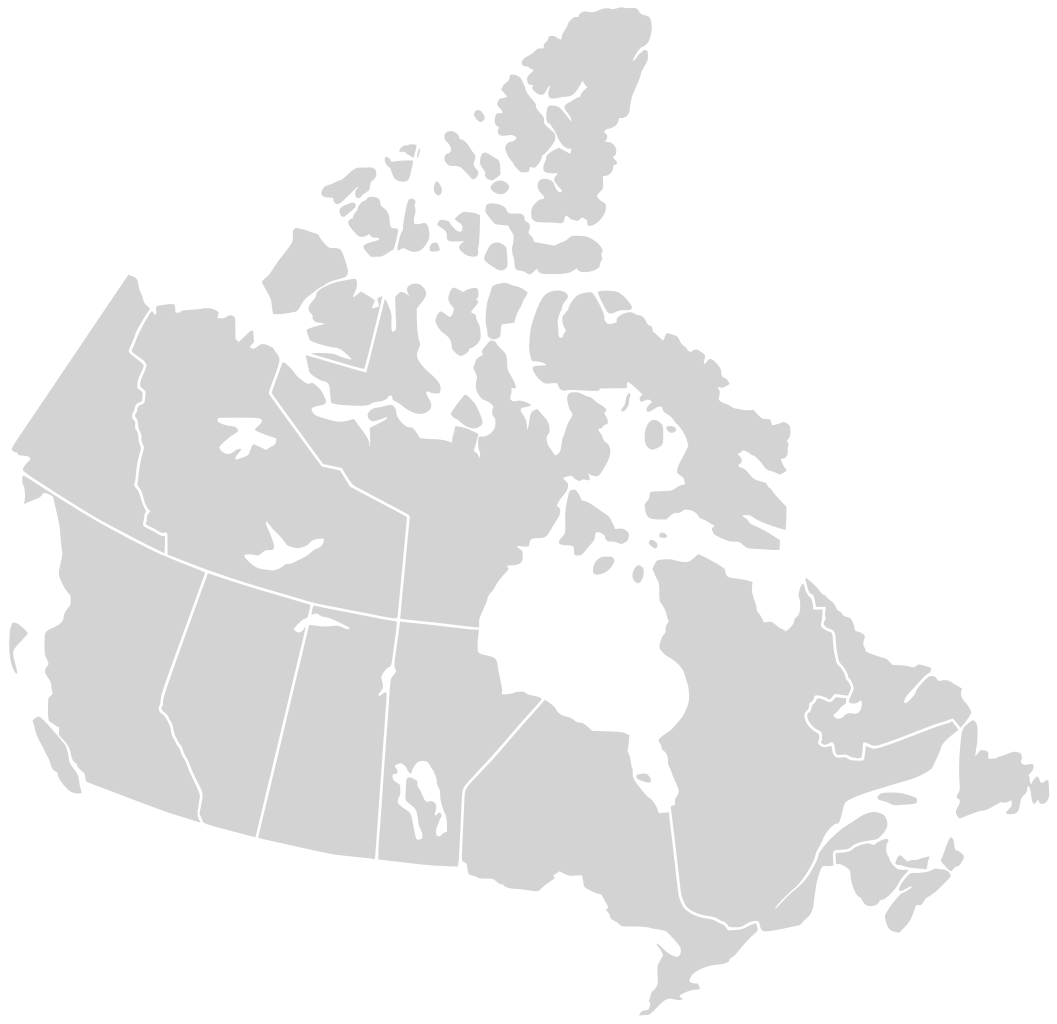
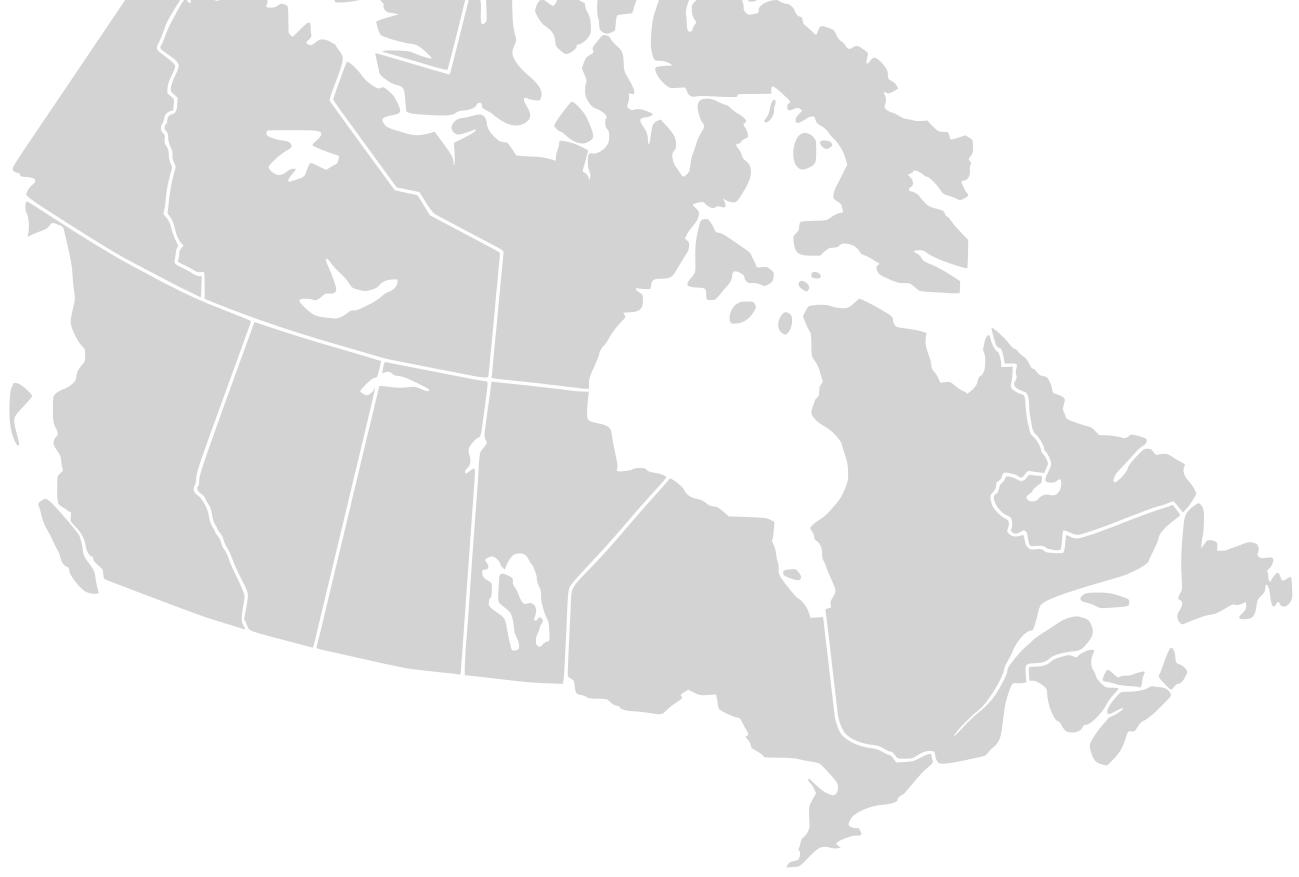
improved location scaling with viewport changes

diff --git a/ppp-front/public/index.html b/ppp-front/public/index.html
@@ -2,34 +2,15 @@
 <html lang="en">
   <head>
     <meta charset="utf-8">
-    <meta name="viewport" content="width=device-width, initial-scale=1">
+    <meta name="viewport" content="width=device-width, initial-scale=2">
     <link rel="stylesheet" href="https://maxcdn.bootstrapcdn.com/bootstrap/3.3.7/css/bootstrap.min.css" integrity="sha384-BVYiiSIFeK1dGmJRAkycuHAHRg32OmUcww7on3RYdg4Va+PmSTsz/K68vbdEjh4u" crossorigin="anonymous">
     <link href="https://fonts.googleapis.com/css?family=Anton" rel="stylesheet">
 
     <link rel="stylesheet" href="src/index.css">
     
-     <!--
-      Notice the use of %PUBLIC_URL% in the tag above.
-      It will be replaced with the URL of the `public` folder during the build.
-      Only files inside the `public` folder can be referenced from the HTML.
-
-      Unlike "/favicon.ico" or "favicon.ico", "%PUBLIC_URL%/favicon.ico" will
-      work correctly both with client-side routing and a non-root public URL.
-      Learn how to configure a non-root public URL by running `npm run build`.
-    -->
     <title>React App</title>
   </head>
   <body>
     <div id="root"></div>
-    <!--
-      This HTML file is a template.
-      If you open it directly in the browser, you will see an empty page.
-
-      You can add webfonts, meta tags, or analytics to this file.
-      The build step will place the bundled scripts into the <body> tag.
-
-      To begin the development, run `npm start`.
-      To create a production bundle, use `npm run build`.
-    -->
   </body>
 </html>

diff --git a/ppp-front/src/App.js b/ppp-front/src/App.js
@@ -15,26 +15,19 @@ class App extends Component {
     })
   }
 
-  componentDidUpdate() {
-    console.log(this.state.id)
-  }
-
   render() {
     const medianIncome = this.props.medianIncome;
 
     return (
       <div className="App">
       <h1 className="headertitle">Median Income in Canadian Metropolitan Cities</h1>
-        <div className="App-header">
-          <img className="map" src="/Canada_blank_map.svg" />
+      <div className="App-header">
+        <img className="map" src="/Canada.png" />
           <div>
-          
+            <Marker medianIncome={this.props.medianIncome} handleClick={this.handleClick}/>
+            <InfoBox medianIncome={this.props.medianIncome} id={this.state.id}/>
           </div>
-            <div>
-              <Marker medianIncome={this.props.medianIncome} handleClick={this.handleClick}/>
-            </div>
-              <InfoBox medianIncome={this.props.medianIncome} id={this.state.id}/>
-        </div>
+      </div>
       </div>
     );
   }
@@ -80,7 +73,6 @@ class InfoBox extends Component {
      let trimmedIncome = formatter.format(medianIncome[index].income);
     let cityLeft = `${medianIncome[index].location.x}%`;
     let cityTop = `${medianIncome[index].location.y}%`;
-    console.log(cityLeft, cityTop);
     return(
       <div className="place box" style={{'top': cityTop, 'left': cityLeft}}
       id={medianIncome[index].id}>{medianIncome[index].city}<br/>{trimmedIncome}</div>

diff --git a/ppp-front/src/index.css b/ppp-front/src/index.css
@@ -6,10 +6,10 @@ body {
 
 img {
   width: 100%;
-  height: 800px;
+  height: 100%;
   margin: 0;
   padding: 0;
-  overflow: hidden;
+  overflow: visible;
   position: relative;
 }
 
@@ -18,15 +18,21 @@ img {
   text-transform: capitalize;
   text-align: center;
 }
+
+.App {
+  position: relative;
+}
+
 .place {
   position: absolute;
 }
+
 .box {
   width:10%;
   height: 50px;
   margin:0.5%;
   float:left;
-  background: teal;
+  background: cornflowerblue;
   border-radius:5px;
   padding:10px;
   text-align: center;
@@ -52,7 +58,7 @@ img {
 .button {
   display: flex;
   overflow: hidden;
-  background: #202129;
+  background: lightblue;
   margin: 10px;
   padding: 12px 12px;
 
@@ -65,7 +71,7 @@ img {
   text-transform: none;
   text-transform: capitalize;
 
-  color: #fff;
+  color: black;
   border: 0 none;
   border-radius: 4px;
 

diff --git a/ppp-front/src/index.js b/ppp-front/src/index.js
@@ -18,12 +18,12 @@ const screenWidth = 1268;
 const screenHeight = 800;
 
 const medianIncome = [
-new MedianIncome("Canada", 0, 100, 0, 78870, 2014),
-new MedianIncome("St. John's", 12, 87, 89, 94060, 2014),
-new MedianIncome("Gatineau", 25, 64, 104, 87060, 2014),
-new MedianIncome("Toronto", 3, 60, 110, 75270,	2014),
-new MedianIncome("Calgary", 7, 18, 88, 104530, 2014),
-new MedianIncome("Vancouver", 5, 3, 90, 76040,	2014)
+new MedianIncome("Canada", 0, 15, 84, 78870, 2014),
+new MedianIncome("St. John's", 1, 90, 65, 94060, 2014),
+new MedianIncome("Gatineau", 2, 65, 77, 87060, 2014),
+new MedianIncome("Toronto", 3, 60, 87, 75270,	2014),
+new MedianIncome("Calgary", 4, 20, 60, 104530, 2014),
+new MedianIncome("Vancouver", 5, 7, 62, 76040,	2014)
 ];
 
 ReactDOM.render(
